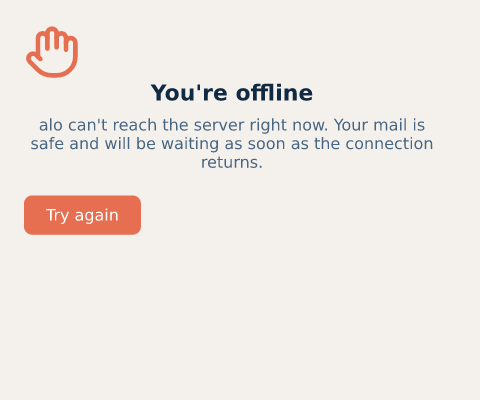
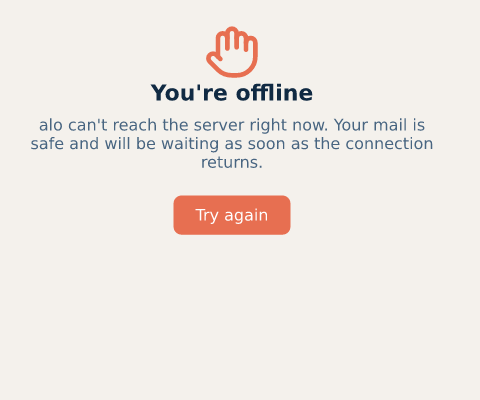
fix(alo-layout): a line nobody wrote takes text-align from its container
An anonymous block has no style of its own, and alignment_of read
text-align only from a box's own element, so every line wrapped in one sat
at the start whatever the page said. alo's offline screen centres its hand
and its button that way, and both were drawn against the left edge. The
question now goes to the nearest styled ancestor, as CSS inheritance says;
a control's internal box still answers from its purpose.

Closes queue item 280. Only the alo-offline references move: the hand to
x = 204 and the button to x = 173.55, the numbers the item named.

diff --git a/crates/alo-layout/src/engine.rs b/crates/alo-layout/src/engine.rs
@@ -180,21 +180,31 @@ pub(crate) fn measure_inline(
 /// `text-align` inherits, and a box's own value is already the inherited one by
 /// the time it is asked — so this asks the box that holds the lines, which is
 /// the box whose width they are aligned in.
+///
+/// A box nobody wrote — the anonymous block a container wraps a run of inline
+/// boxes in — has no style of its own and **inherits** from the box it is in,
+/// so it asks the nearest element above it. Reading only its own style once
+/// left every such line at the start: alo's offline screen is a `text-align:
+/// center` page whose picture and button each sit in one, and both were drawn
+/// against the left edge.
 fn alignment_of(boxes: &BoxTree, styles: &StyleTree, id: BoxId) -> inline::TextAlignment {
-    // A button's label sits in the middle of it. The box it sits in is
-    // anonymous and has no style to read `text-align` from, so the box tree's
-    // own word for why it exists is the answer.
+    // The box a form control holds what it shows in is anonymous too, but it
+    // does not inherit: a button's label sits in the middle of it and a
+    // field's at the start whatever the page around them says, so the box
+    // tree's own word for why it exists is the answer.
     if let Some(BoxKind::Anonymous {
-        purpose: alo_box::Purpose::Control { centred: true },
+        purpose: alo_box::Purpose::Control { centred },
         ..
     }) = boxes.get(id).map(|node| &node.kind)
     {
-        return inline::TextAlignment::Center;
+        return if *centred {
+            inline::TextAlignment::Center
+        } else {
+            inline::TextAlignment::Start
+        };
     }
     boxes
-        .get(id)
-        .and_then(|node| node.kind.node())
-        .and_then(|source| styles.get(source))
+        .nearest_style(styles, id)
         .and_then(|style| style.get("text-align"))
         .and_then(inline::TextAlignment::parse)
         .unwrap_or_default()

diff --git a/crates/alo-layout/tests/numbers.rs b/crates/alo-layout/tests/numbers.rs
@@ -1034,3 +1034,43 @@ fn a_fieldset_with_no_legend_has_an_ordinary_border() {
          with its border back: {fieldset:?}",
     );
 }
+
+/// The `left` of the element `i` inside a 200-pixel container `w`, the
+/// container aligned as `align` says.
+fn left_of_i_aligned(html: &str, align: &str) -> f32 {
+    let css = format!(
+        "#w {{ width: 200px; text-align: {align} }} p {{ margin: 0 }} \
+         #i {{ display: inline-block; width: 40px; height: 20px }}"
+    );
+    let (boxes, layout) = lay_out(html, &css, Size::new(400.0, 300.0));
+    rect_of(&boxes, &layout, "i", html).left()
+}
+
+#[test]
+fn text_align_moves_an_atomic_inline_in_a_line_nobody_wrote() {
+    // The `<p>` beside it means the inline-block's line is an anonymous block,
+    // which has no style of its own and inherits the container's `text-align`.
+    // alo's offline screen is exactly this, and its picture and its button
+    // were drawn against the left edge.
+    let html = "<body><div id=w><span id=i></span><p>x</p></div></body>";
+    for (align, left) in [
+        ("start", 0.0),
+        ("left", 0.0),
+        ("center", 80.0),
+        ("end", 160.0),
+        ("right", 160.0),
+    ] {
+        let found = left_of_i_aligned(html, align);
+        assert!(close(found, left), "{align}: at {found}, not {left}");
+    }
+}
+
+#[test]
+fn a_line_of_text_and_an_inline_block_move_together() {
+    // "ab" is sixteen pixels and the box forty: a fifty-six pixel line, and
+    // aligning it moves the whole line rather than each piece on its own.
+    let html = "<body><div id=w>ab<span id=i></span><p>x</p></div></body>";
+    assert!(close(left_of_i_aligned(html, "start"), 16.0));
+    assert!(close(left_of_i_aligned(html, "center"), 72.0 + 16.0));
+    assert!(close(left_of_i_aligned(html, "right"), 144.0 + 16.0));
+}

diff --git a/crates/alo-layout/src/inline.rs b/crates/alo-layout/src/inline.rs
@@ -915,6 +915,38 @@ mod tests {
     }
 
     #[test]
+    fn an_atomic_box_is_aligned_with_the_line_it_is_on() {
+        // A box alone on its line, and a box after text: the line is aligned
+        // as one thing, so the box moves exactly as far as the line does.
+        for (alignment, alone, after_text) in [
+            (TextAlignment::Start, 0.0, 16.0),
+            (TextAlignment::Center, 80.0, 72.0 + 16.0),
+            (TextAlignment::End, 160.0, 144.0 + 16.0),
+        ] {
+            let layout =
+                lay_out_aligned(&[atomic(1, 40.0, 20.0)], Some(200.0), alignment, &BlockFont);
+            assert_eq!(
+                lines_of(&layout),
+                vec![vec![format!("1@{alone}")]],
+                "{alignment:?}"
+            );
+
+            let layout = lay_out_aligned(
+                &[text(1, "ab"), atomic(2, 40.0, 20.0)],
+                Some(200.0),
+                alignment,
+                &BlockFont,
+            );
+            let start = after_text - 16.0;
+            assert_eq!(
+                lines_of(&layout),
+                vec![vec![format!("1@{start}"), format!("2@{after_text}")]],
+                "{alignment:?}",
+            );
+        }
+    }
+
+    #[test]
     fn a_fragment_names_the_bytes_of_the_text_it_drew() {
         let text_of = "one two";
         let layout = lay_out(&[text(1, text_of)], Some(1000.0), &BlockFont);

diff --git a/docs/autonomy/STATE.md b/docs/autonomy/STATE.md
@@ -15386,3 +15386,82 @@ own text closes it when 270–273 have; 280–282 opened. Also updated:
 118 queue items are open (two closed, three opened). The first eligible item
 in file order is now **280**. The next unused queue number is **283** and the
 next ADR is **0023**. This is one iteration, not a finished queue or roadmap.
+
+## Iteration 173 — item 280: `text-align` moves an atomic inline
+
+**Contracts read.** `CLAUDE.md`, `docs/autonomy/LOOP.md`, `ROADMAP.md` (its
+three states and the stage 2 lines), iteration 172's entry, queue item 280,
+`docs/features.md`'s layout section and `docs/conformance.md`. No
+`AGENTS.md` exists in this repository. ADR 0004 (we own the layout tree;
+`taffy` owns the algorithms) applies and is unchanged: the fix is in our
+inline layout, `taffy` is not touched. No ADR is needed; nothing is decided.
+
+**Selection.** Iteration 172 recorded 280 as the first eligible item, and
+nothing before it changed: 43 waits on 81, 179 on a page, 269 on a `rav1d`
+release, and the needs-design items still need designs. 280 depends on
+nothing.
+
+**What was built.** The line builder (`inline.rs`) already moved every
+fragment of a line by its alignment, atomic boxes included. The fault was
+which alignment it was given: both of the offline screen's lines are
+anonymous blocks (the `<svg>` and the button each sit beside block-level
+siblings), and `engine.rs`'s `alignment_of` read `text-align` only from a
+box's own element, so a box nobody wrote always got `start`. It now asks
+`BoxTree::nearest_style`, because an anonymous box inherits from its parent.
+A control's internal box still answers from its `Purpose`: a button's label
+is centred and a field's sits at the start, whatever the page says. That is
+today's behaviour, now stated outright, where before it fell through by
+accident.
+
+**Gate, mechanical.** `scripts/gate.sh` exited 0, read in the same step:
+fmt clean, clippy silent, every test passes (the corpus included, so every
+committed reference reproduces), no stubs, no `unsafe`, every rented crate
+behind its boundary, no verb takes a coordinate, the stop rule holds,
+`CHANGELOG.md` changed. `git diff --check` passes.
+*Process note:* the run took longer than the 600 s foreground limit, so the
+tool moved it to the background. This iteration then waited for it in the
+foreground (a blocking wait on the process) and read the result, exit 0,
+before writing this entry or committing. Only this entry changed after the
+gate ran. The log is in this session's scratchpad.
+
+**Gate, manual.**
+- Layout assertions in numbers (`alo-layout/tests/numbers.rs`, 2 new): an
+  inline-block alone in an anonymous line of a 200 px container is at 0, 0,
+  80, 160 and 160 for `start`, `left`, `center`, `end` and `right`; "ab" (16
+  px) and a 40 px box move as one line, the box at 16, 88 and 160.
+  `inline.rs` adds 1 unit test: an atomic box alone and after text under all
+  three alignments. Doctored: the old `alignment_of` fails both
+  `numbers.rs` tests.
+- Reference render: `alo-offline` moved, and no other case did. The hand is
+  now at (204, 24) and the button at (173.54688, 195.48438), the exact
+  numbers the queue item named. Its layout, display list, agent tree and
+  picture are re-committed. I looked at the new render: hand and button
+  centred across; the hand still touches the heading (281) and the screen is
+  not centred down the page (282), as expected.
+- One responsibility per file: the change stays in `engine.rs`'s question of
+  which alignment a context has; no file gained a second reason to change.
+- `docs/features.md` gains a `text-align` line; `docs/conformance.md` says
+  what aligns, that `justify` is read as `start`, and that right-to-left
+  `start`/`end` wait on 98; its offline-screen row now names only 281 and
+  282.
+
+**Roadmap.** This item served **no open roadmap line**, and `ROADMAP.md` is
+deliberately unchanged. It corrects inline layout, which sits under stage
+1's ticked *Layout* line. alo's offline screen found the fault, but no stage
+2 line covers it: the *SVG* line's Owed clause never listed it, and *CSS
+beyond what alo needed* is new capabilities, not a fix to existing ones.
+Ticking or annotating a line to discharge this would be the erosion
+`LOOP.md` warns against. Queue: 280 ticked with what was done. Also updated:
+`CHANGELOG.md`, `docs/features.md`, `docs/conformance.md`, `REMAINING.md`.
+
+**Unresolved obligations.**
+- 281 and 282 (the offline screen's vertical layout) are eligible; 281 is
+  first in file order. 279 is eligible too.
+- Carried, unchanged: ADR 0022 § 2's wording and § 4's name order, and a
+  side-by-side of the hand with a real browser (a person's call); 269 blocked
+  on a `rav1d` release; the `image-webp` upstream report; 109, 179, and 82,
+  83, 85–89, 95–99, 104 and 105 still needing their designs.
+
+117 queue items are open. The first eligible item in file order is now
+**281**. The next unused queue number is **283** and the next ADR is
+**0023**. This is one iteration, not a finished queue or roadmap.

diff --git a/docs/autonomy/QUEUE.md b/docs/autonomy/QUEUE.md
@@ -4727,7 +4727,7 @@ The long pole, and the thing most of section E is unreachable without.
   again fails 3 there and 1 in `banded.rs`; no hole fails 5. Corpus case
   `fieldset-patterns` is the reference render; no other reference moved.
 
-- [ ] **280. `text-align` moves an atomic inline.** *Opened by `alo-offline`
+- [x] **280. `text-align` moves an atomic inline.** *Opened by `alo-offline`
   (iteration 172).* alo's offline screen is centred by `text-align: center` on
   its `body`, and its `<svg>` and `<button>` are each the only thing on their
   line. The engine aligns text runs and leaves an atomic inline where the line
@@ -4737,6 +4737,22 @@ The long pole, and the thing most of section E is unreachable without.
   *Depends on nothing.* *Closes when:* `alo-offline`'s layout assertion puts
   both at the centre of their line, a unit test does the same for `right` and
   `start`/`end`, and a line of text and an inline-block together moves as one.
+  **Built (iteration 173).** The line builder already aligned every
+  fragment, atomic ones included; the fault was in *which* alignment it was
+  given. Each of the offline screen's two lines is an **anonymous block**
+  (the `<svg>` and the button sit beside block-level siblings), and
+  `alo-layout`'s `alignment_of` read `text-align` only from a box's own
+  element, so a box nobody wrote always got `start`. It now asks
+  `BoxTree::nearest_style`, as an anonymous box inherits from its parent;
+  a control's internal box still answers from its purpose (a button's
+  label centred, a field's at the start whatever the page says). Tests:
+  `numbers.rs` 2 (an inline-block alone in an anonymous line at 0, 0, 80,
+  160, 160 for `start`, `left`, `center`, `end`, `right` in 200 px; "ab"
+  and a 40 px box moving as one, the box at 16, 88 and 160); `inline.rs` 1
+  (an atomic box alone and after text under all three alignments).
+  Doctored: the old `alignment_of` fails both `numbers.rs` tests. Corpus:
+  `alo-offline` moved — the hand to (204, 24) and the button to
+  (173.54688, 195.48438), exactly the queue's numbers — and no other case.
 
 - [ ] **281. An atomic inline's margins count in its line's height.** *Opened
   by `alo-offline` (iteration 172).* The offline screen's `<svg>` has

diff --git a/docs/conformance.md b/docs/conformance.md
@@ -32,6 +32,10 @@ takes more lines than the same paragraph in a wide one.
 
 Lines are real too: text wraps between words across inline boxes, everything on
 a line sits on one baseline, and a link broken over two lines is two rectangles.
+`text-align` moves a whole line — text, images and inline-blocks together —
+including a line in an anonymous block, which inherits its container's value.
+`justify` is not implemented and is read as `start`; right-to-left `start`
+and `end` wait on writing modes (item 98).
 
 Colours are channels, `currentColor` included, so the engine now knows what
 colour everything is.
@@ -222,7 +226,7 @@ it lives in.
 | alo Settings | **yes** — `alo-workplace`'s, likewise, and its narrow-screen `@media` block evaluated rather than assumed away |
 | An agent reading Settings as a tree and activating a row by name | **yes** — `crates/alo-renderer/tests/an_agent_on_settings.rs`, against that same screen, by name and never by position |
 | alo agent overlay | not yet — the screen is not written in `alo-workplace` either |
-| alo offline screen | **nearly** — `alo-workplace`'s `offline.html`, frozen byte for byte as `alo-offline`, its hand drawn (item 273); its `<svg>` and button are not centred (items 280, 282) and the hand's bottom margin is lost (281) |
+| alo offline screen | **nearly** — `alo-workplace`'s `offline.html`, frozen byte for byte as `alo-offline`, its hand drawn (item 273) and it and the button centred across (item 280); the screen is not centred down (282) and the hand's bottom margin is lost (281) |
 
 **One thing is true of both screens and is not a defect in either**: the corpus
 renders in DejaVu Sans, and the app loads Inter. Inter is narrower, so alo's

diff --git a/docs/features.md b/docs/features.md
@@ -59,6 +59,7 @@ and an item marked [2] is a decision that it is *not* stage 1's problem.
 - [1] Absolute and relative positioning, `z-index`, stacking
 - [1] Overflow and scrolling regions
 - [1] Inline formatting: a line of text and the boxes in it, with breaking and baselines
+- [1] **`text-align`** `start`, `left`, `center`, `end` and `right`: a line, text and inline-blocks together, moves as one, and a line in a box nobody wrote inherits its container's alignment
 - [1] **`letter-spacing`**, applied where the text is measured — it changes what a run is worth and so where every line breaks
 - [1] **`white-space`**: `normal`, `pre`, `pre-wrap`, `pre-line`, `nowrap` — runs of whitespace collapsed when the box is built, and where a line may break decided when the line is built
 - [1] Layout is asserted in **numbers** — the computed box — never by eyeballing an image

diff --git a/CHANGELOG.md b/CHANGELOG.md
@@ -6,6 +6,14 @@ What changed, in words a person outside this repository can read. Newest first.
 
 ## Unreleased
 
+- **`text-align` now centres pictures and buttons that share a line with
+  nothing written.** A line made only of images, inline-blocks or buttons
+  next to block-level siblings was always drawn against the left edge,
+  whatever `text-align` said. It now moves like any other line, so alo's
+  offline screen has its hand and its "Try again" button centred, as in
+  other browsers. Its content still is not centred down the page, and the
+  space below the hand is still lost; both are queued.
+
 - **Outlines inside an `<svg>` are drawn, so alo's offline screen shows its
   hand.** `stroke` now draws, with its width, round or square ends, round or
   beveled corners, the miter limit, its own opacity, and dashed or dotted

diff --git a/docs/autonomy/REMAINING.md b/docs/autonomy/REMAINING.md
@@ -428,6 +428,12 @@ hand drawn, which closes 107. The page showed three layout faults, queued as
 the `place-*` shorthands), and 280 is next. 118 queue items are open; the
 next unused queue number is 283 and the next unused ADR 0023.
 
+Iteration 173 built 280: a line in an anonymous block takes `text-align`
+from the nearest element above it, so alo's offline screen centres its hand
+and its button. 281 (an atomic inline's margins in its line) is next. 117
+queue items are open; the next unused queue number is 283 and the next unused
+ADR 0023.
+
 1. **Item 205's plain-header scope is finished.** Iteration 117 rechecks
    function headers under the body's strictness and preserves the remaining
    early errors and import attributes as item 222. Item 60 is `needs design`;
